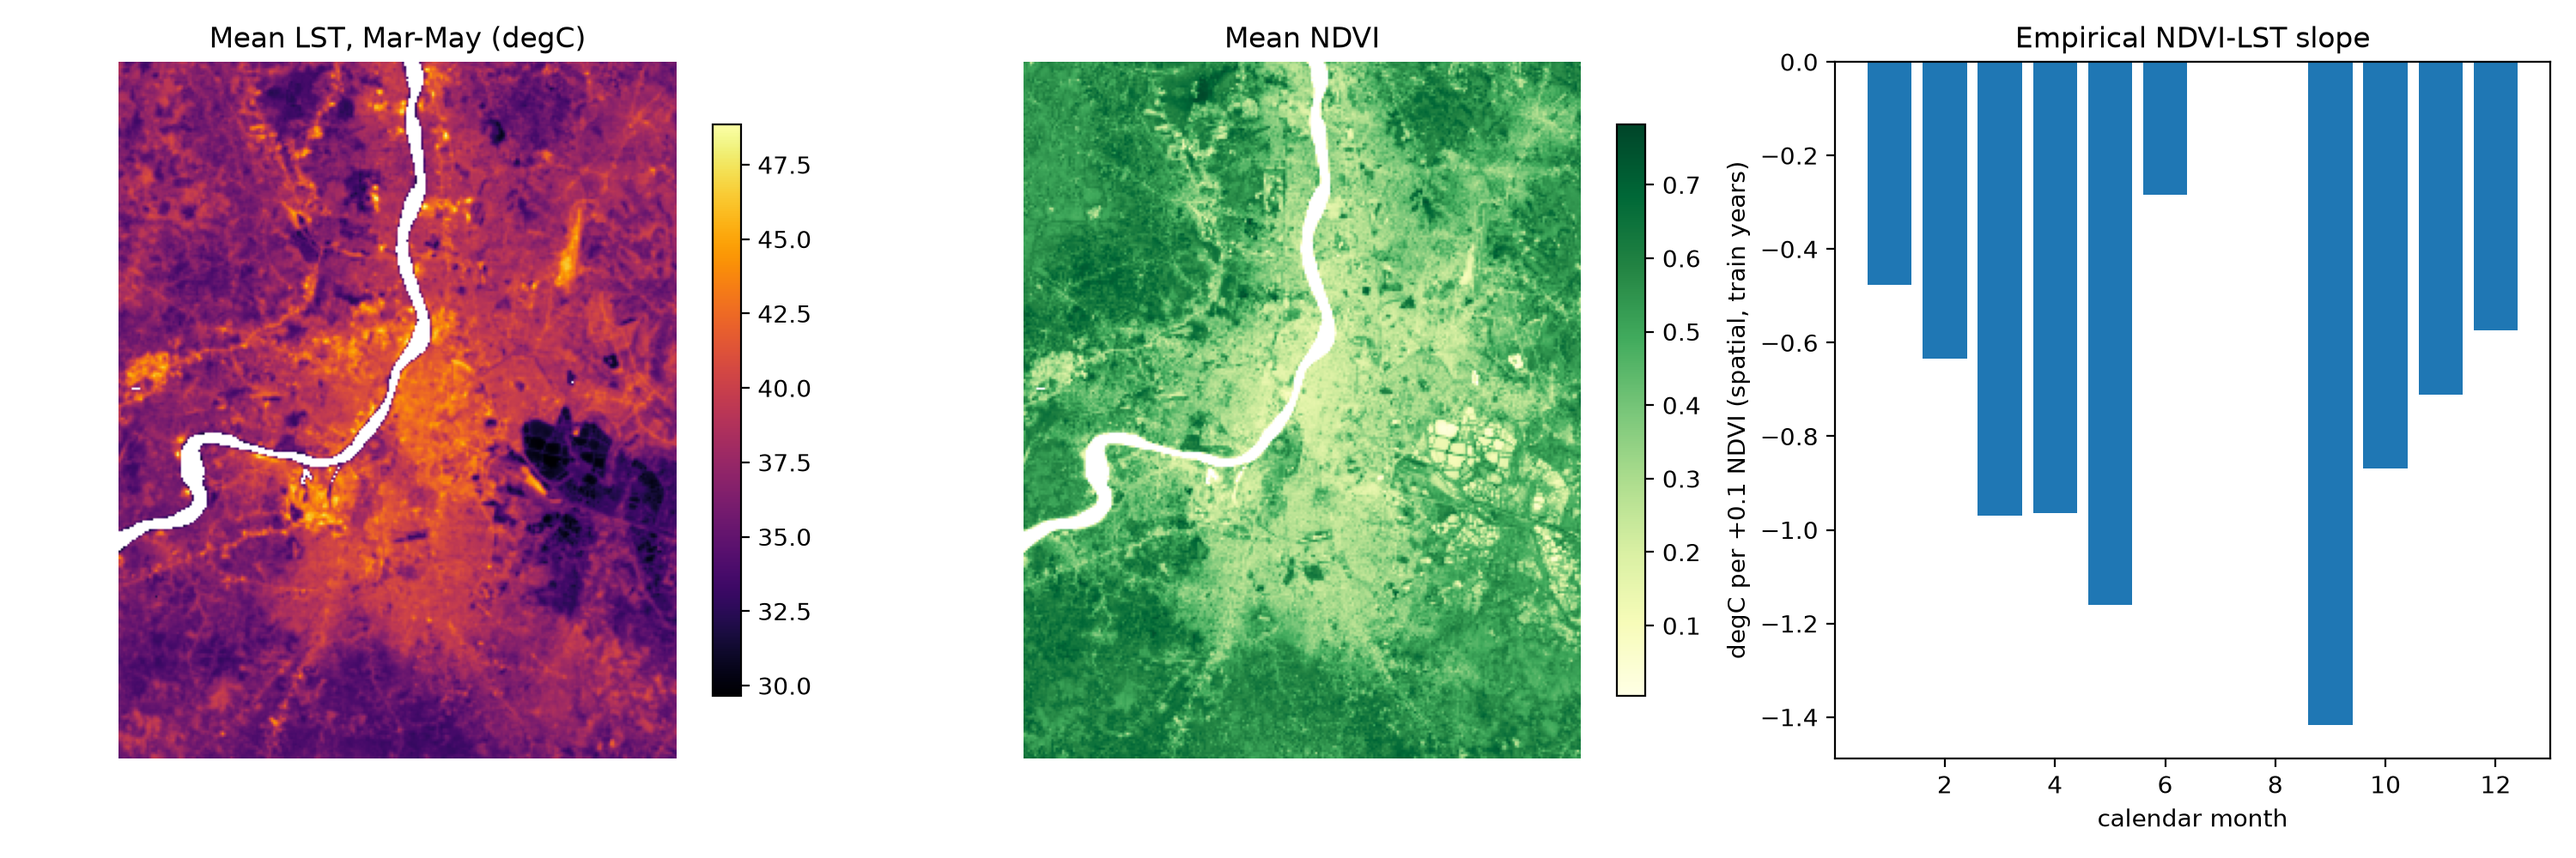
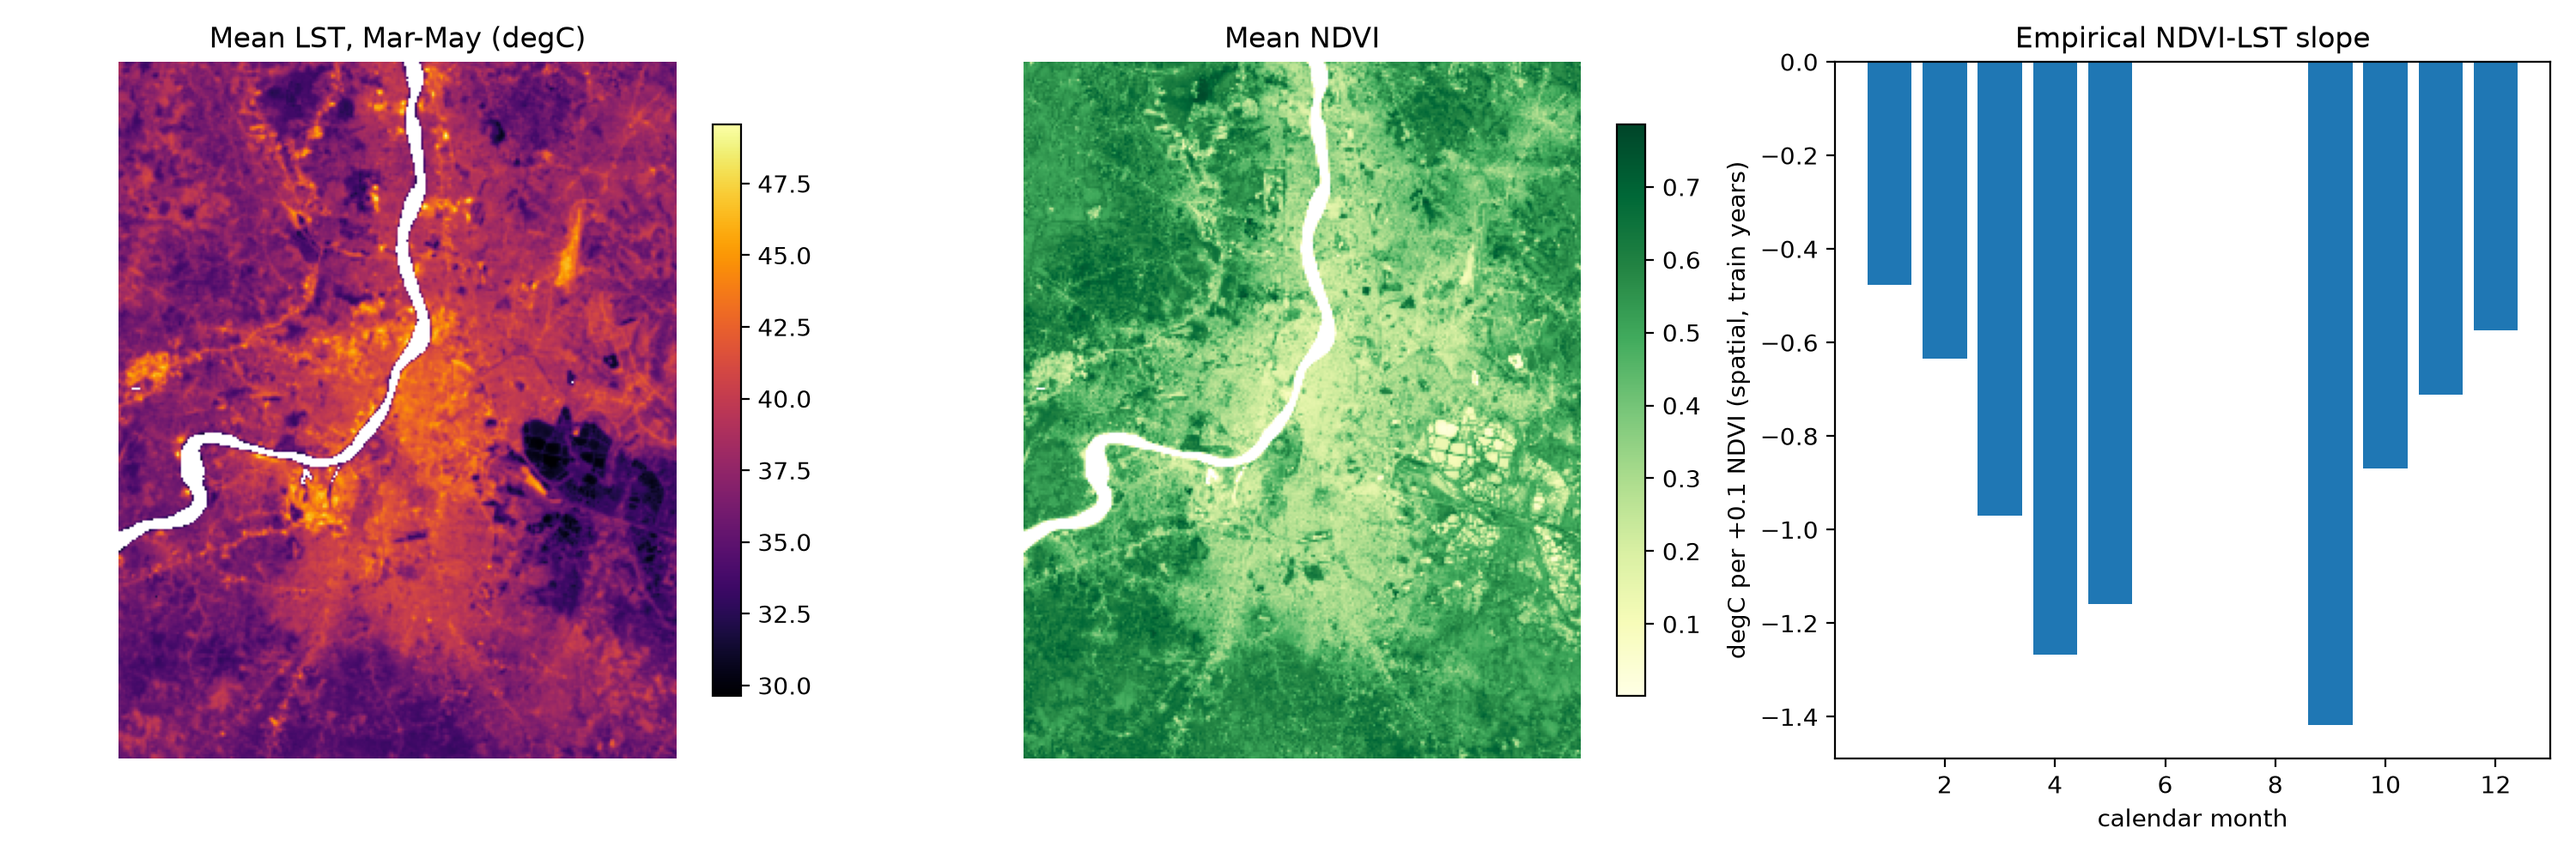
02 and 03 done

diff --git a/03_baselines/baselines.py b/03_baselines/baselines.py
@@ -1,0 +1,136 @@
+"""Stage 3: baselines for LST forecasting at 120 m.
+
+Task: predict LST in target month t from information up to month t-1
+(last valid observation within K=6 months, calendar month of t).
+Models:
+  persistence : last valid LST in the window
+  climatology : per-cell mean of that calendar month, train years
+  linear      : climatology + linear fit on last-valid LST/NDVI anomalies
+  linear_era  : linear + concurrent ERA5 anomalies of month t
+                (REFERENCE ONLY: uses weather not known at forecast time)
+Fit on train years (<=2022), non-held-out cells. Evaluate on 2023 (val) and
+2024-25 (test), for all land cells and for held-out spatial blocks.
+"""
+import warnings
+from pathlib import Path
+
+import matplotlib.pyplot as plt
+import numpy as np
+import pandas as pd
+
+warnings.filterwarnings("ignore", category=RuntimeWarning)
+ROOT = Path(__file__).resolve().parents[1]
+K, TRAIN_END, VAL_YEARS, TEST_YEARS = 6, 2022, [2023], [2024, 2025]
+FIT_FRAC, SEED = 0.2, 42
+MODELS = ["persistence", "climatology", "linear", "linear_era"]
+
+d = np.load(ROOT / "data" / "processed" / "cube.npz")
+lst, ndvi, use, keys, era = d["lst"], d["ndvi"], d["usable"], d["dates"], d["era"]
+land, test_cell = d["land"], d["test_cell"]
+years = np.array([int(k[:4]) for k in keys])
+months = np.array([int(k[5:]) for k in keys])
+T, H, W = lst.shape
+train_t = use & (years <= TRAIN_END)
+rng = np.random.default_rng(SEED)
+
+
+def monthly_clim(x, mask_t):
+    out = np.full((13,) + x.shape[1:], np.nan, np.float32)
+    for m in range(1, 13):
+        idx = np.where(mask_t & (months == m))[0]
+        if len(idx):
+            out[m] = np.nanmean(x[idx], axis=0)
+    return out
+
+
+clim_l, clim_n = monthly_clim(lst, train_t), monthly_clim(ndvi, train_t)
+era_clim = np.stack([era[(years <= TRAIN_END) & (months == m)].mean(0) if m else era[0] * np.nan
+                     for m in range(13)])
+cell_lst, cell_ndvi = np.nanmean(clim_l[1:], 0), np.nanmean(clim_n[1:], 0)
+lst_anom = lst - clim_l[months]
+ndvi_anom = ndvi - clim_n[months]
+era_anom = era - era_clim[months]
+
+
+def last_valid(t):
+    raw, al, an, gap = (np.full((H, W), np.nan, np.float32) for _ in range(4))
+    for lag in range(1, K + 1):
+        if t - lag < 0:
+            break
+        fill = np.isnan(raw) & np.isfinite(lst[t - lag])
+        raw[fill], al[fill] = lst[t - lag][fill], lst_anom[t - lag][fill]
+        an[fill], gap[fill] = ndvi_anom[t - lag][fill], lag
+    return raw, al, an, gap
+
+
+parts, n_elig, n_dropped = [], 0, 0
+for t in range(T):
+    if not use[t] or not np.isfinite(clim_l[months[t]]).any():
+        continue
+    raw, al, an, gap = last_valid(t)
+    base = land & np.isfinite(lst[t]) & np.isfinite(clim_l[months[t]])
+    ok = base & np.isfinite(raw) & np.isfinite(al) & np.isfinite(an)
+    n_elig += base.sum()
+    n_dropped += (base & ~ok).sum()
+    if years[t] <= TRAIN_END:  # subsample training rows, held-out cells excluded
+        ok &= (~test_cell) & (rng.random((H, W)) < FIT_FRAC)
+    n = int(ok.sum())
+    parts.append(pd.DataFrame({
+        "t": t, "year": years[t], "month": months[t], "held_out": test_cell[ok],
+        "y": lst[t][ok], "clim": clim_l[months[t]][ok], "persistence": raw[ok],
+        "al": al[ok], "an": an[ok], "gap": gap[ok],
+        "ndvi_t": ndvi[t][ok], "an_t": ndvi_anom[t][ok],
+        "cell_lst": cell_lst[ok], "cell_ndvi": cell_ndvi[ok],
+        "e0": era_anom[t, 0], "e1": era_anom[t, 1], "e2": era_anom[t, 2]}, index=range(n)))
+df = pd.concat(parts, ignore_index=True)
+df["climatology"] = df.clim
+
+fit = df[df.year <= TRAIN_END]
+def design(x, era_cols=False):
+    cols = [np.ones(len(x)), x.al, x.al * x.gap, x.an]
+    if era_cols:
+        cols += [x.e0, x.e1, x.e2]
+    return np.stack(cols, 1)
+beta = np.linalg.lstsq(design(fit), fit.y - fit.clim, rcond=None)[0]
+beta_e = np.linalg.lstsq(design(fit, True), fit.y - fit.clim, rcond=None)[0]
+df["linear"] = df.clim + design(df) @ beta
+df["linear_era"] = df.clim + design(df, True) @ beta_e
+df.to_pickle(ROOT / "data" / "processed" / "rows.pkl")
+print("linear coefs [1, a_last, a_last*gap, ndvi_a]:", beta.round(3))
+print("linear_era coefs (+ era skinT, t2m, precip anomalies):", beta_e.round(3))
+print(f"Eligible target pixels dropped (no valid obs in last {K} months): "
+      f"{n_dropped / n_elig:.1%}")
+
+
+def table(sub):
+    return {m: dict(rmse=np.sqrt(np.mean((sub[m] - sub.y) ** 2)),
+                    mae=np.mean(np.abs(sub[m] - sub.y)), bias=np.mean(sub[m] - sub.y))
+            for m in MODELS}
+
+
+rows = []
+for name, yrs in [("val", VAL_YEARS), ("test", TEST_YEARS)]:
+    e = df[df.year.isin(yrs)]
+    for scope, sub in [("all_land", e), ("held_out_blocks", e[e.held_out])]:
+        for m, v in table(sub).items():
+            rows.append(dict(split=name, scope=scope, model=m, n=len(sub), **v))
+res = pd.DataFrame(rows).round(3)
+print(res.to_string(index=False))
+res.to_csv(ROOT / "data" / "processed" / "baseline_results.csv", index=False)
+
+te = df[df.year.isin(TEST_YEARS)]
+bym = pd.DataFrame({m: te.groupby("month").apply(lambda g: np.sqrt(np.mean((g[m] - g.y) ** 2)))
+                    for m in MODELS}).round(2)
+print("\nTest RMSE by calendar month:\n", bym.to_string())
+
+fig, ax = plt.subplots(1, 2, figsize=(12, 4.5))
+tt = res[(res.split == "test")].pivot(index="model", columns="scope", values="rmse").loc[MODELS]
+tt.plot.bar(ax=ax[0], rot=20)
+ax[0].set_ylabel("RMSE (degC)")
+ax[0].set_title("Test RMSE (2024-25)")
+bym.plot(ax=ax[1], marker="o")
+ax[1].set_xlabel("calendar month")
+ax[1].set_ylabel("RMSE (degC)")
+ax[1].set_title("Test RMSE by month")
+fig.tight_layout()
+fig.savefig(ROOT / "docs" / "figures" / "baselines.png", dpi=200)

diff --git a/02_preprocessing/build_cube.py b/02_preprocessing/build_cube.py
@@ -20,6 +20,7 @@ import config as C
 FACTOR = 4            # 30 m -> 120 m
 MIN_VALID_BLOCK = 0.5  # min fraction of valid 30 m pixels per 120 m cell
 COLD_OUTLIER = 12.0   # degC below the month's spatial median => masked
+MAX_OUTLIER_FRAC = 0.05  # month dropped if more of its valid pixels are outliers
 TRAIN_END = 2022
 BLOCK = 40            # cells per spatial block side (4.8 km)
 TEST_BLOCK_FRAC = 0.2
@@ -44,6 +45,8 @@ def slope(l, n):
 
 usable = pd.read_csv(C.ROOT / "data" / "interim" / "usable_months.csv")
 T = len(usable)
+use = usable.usable.values.copy()
+dropped = []
 keys = [f"{r.year}-{r.month:02d}" for r in usable.itertuples()]
 
 first = next(C.LANDSAT_DIR.glob("landsat_*.tif"))
@@ -57,7 +60,7 @@ nobs = np.zeros_like(lst)
 masked_cnt = {}
 
 for i, r in enumerate(usable.itertuples()):
-    if not r.usable:
+    if not use[i]:
         continue
     with rasterio.open(C.LANDSAT_DIR / f"landsat_{r.year}_{r.month:02d}.tif") as s:
         a = s.read().astype(np.float32)
@@ -65,6 +68,10 @@ for i, r in enumerate(usable.itertuples()):
     n = np.where(a[1] == C.NODATA, np.nan, a[1] / C.NDVI_FACTOR)
     bad = l < (np.nanmedian(l) - COLD_OUTLIER)
     masked_cnt[keys[i]] = int(bad.sum())
+    if bad.sum() / max(np.isfinite(l).sum(), 1) > MAX_OUTLIER_FRAC:
+        use[i] = False
+        dropped.append(keys[i])
+        continue
     l[bad] = np.nan
     n[np.isnan(l)] = np.nan
     lst[i], ndvi[i], nobs[i] = block_mean(l), block_mean(n), block_mean(a[2])
@@ -82,7 +89,7 @@ era_arr = np.stack([era.skin_temperature - 273.15, era.temperature_2m - 273.15,
 # Per-image spatial NDVI-LST slope on train years.
 rows = []
 for i, r in enumerate(usable.itertuples()):
-    if r.usable and r.year <= TRAIN_END:
+    if use[i] and r.year <= TRAIN_END:
         sl, rr, nn = slope(lst[i], ndvi[i])
         rows.append(dict(year=r.year, month=r.month, slope_per_ndvi=sl, r=rr, n=nn))
 sl_df = pd.DataFrame(rows)
@@ -99,7 +106,7 @@ test_cell = np.isin(block_id, test_ids) & land
 out = C.ROOT / "data" / "processed"
 out.mkdir(parents=True, exist_ok=True)
 np.savez_compressed(out / "cube.npz", lst=lst, ndvi=ndvi, nobs=nobs,
-                    usable=usable.usable.values, dates=np.array(keys), era=era_arr,
+                    usable=use, dates=np.array(keys), era=era_arr,
                     era_names=np.array(["skin_T_C", "t2m_C", "precip_mm"]), land=land,
                     block_id=block_id, test_cell=test_cell,
                     origin_xy=np.array([x0, y0]), res=FACTOR * C.SCALE)
@@ -107,10 +114,10 @@ sl_df.round(4).to_csv(out / "ndvi_lst_slopes_train.csv", index=False)
 
 # Figure: mean Mar-May LST, mean NDVI, mean slope by calendar month.
 mo = usable.month.values
-spring = usable.usable.values & np.isin(mo, [3, 4, 5])
+spring = use & np.isin(mo, [3, 4, 5])
 fig, ax = plt.subplots(1, 3, figsize=(15, 5))
 for a_, d, t, cm in [(ax[0], np.nanmean(lst[spring], 0), "Mean LST, Mar-May (degC)", "inferno"),
-                     (ax[1], np.nanmean(ndvi[usable.usable.values], 0), "Mean NDVI", "YlGn")]:
+                     (ax[1], np.nanmean(ndvi[use], 0), "Mean NDVI", "YlGn")]:
     im = a_.imshow(d, cmap=cm)
     a_.set_title(t)
     a_.axis("off")
@@ -122,8 +129,9 @@ ax[2].set_title("Empirical NDVI-LST slope")
 fig.tight_layout()
 fig.savefig(C.ROOT / "docs" / "figures" / "stage2_overview.png", dpi=200)
 
-print(f"Cube {lst.shape}  usable months {int(usable.usable.sum())}  "
+print(f"Cube {lst.shape}  usable months {int(use.sum())}  "
       f"land cells {int(land.sum())} ({land.mean():.0%})")
+print("Dropped for cloud contamination:", dropped)
 print("Cold-outlier pixels masked (top 8):",
       sorted(masked_cnt.items(), key=lambda kv: -kv[1])[:8])
 print(f"Spatial blocks: {len(ids)} land blocks, {len(test_ids)} held out "

diff --git a/04_models/gbm.py b/04_models/gbm.py
@@ -1,0 +1,48 @@
+"""Stage 4a: gradient-boosted trees on the Stage 3 rows.
+
+gbm_prev : inputs known through month t-1 (true forecasting information)
+gbm_conc : adds concurrent NDVI and ERA5 anomalies of month t
+           (emulator: LST given weather + vegetation state; used for NDVI scenarios)
+Target is the anomaly (y - climatology). Heavy regularisation because the ERA5
+features take only ~60 distinct values in training (one per month).
+"""
+import warnings
+from pathlib import Path
+
+import numpy as np
+import pandas as pd
+from sklearn.ensemble import HistGradientBoostingRegressor
+
+warnings.filterwarnings("ignore")
+ROOT = Path(__file__).resolve().parents[1]
+TRAIN_END, VAL_YEARS, TEST_YEARS = 2022, [2023], [2024, 2025]
+
+df = pd.read_pickle(ROOT / "data" / "processed" / "rows.pkl")
+df["msin"], df["mcos"] = np.sin(2 * np.pi * df.month / 12), np.cos(2 * np.pi * df.month / 12)
+prev = ["clim", "cell_lst", "cell_ndvi", "msin", "mcos", "al", "an", "gap"]
+conc = prev + ["ndvi_t", "an_t", "e0", "e1", "e2"]
+fit = df[df.year <= TRAIN_END]
+
+for name, feats in [("gbm_prev", prev), ("gbm_conc", conc)]:
+    m = HistGradientBoostingRegressor(max_iter=200, learning_rate=0.05, max_leaf_nodes=15,
+                                      min_samples_leaf=5000, l2_regularization=10.0,
+                                      early_stopping=False, random_state=42)
+    m.fit(fit[feats], fit.y - fit.clim)
+    df[name] = df.clim + m.predict(df[feats])
+
+MODELS = ["climatology", "linear", "linear_era", "gbm_prev", "gbm_conc"]
+rows = []
+for split, yrs in [("val", VAL_YEARS), ("test", TEST_YEARS)]:
+    e = df[df.year.isin(yrs)]
+    for scope, sub in [("all_land", e), ("held_out_blocks", e[e.held_out])]:
+        for mm in MODELS:
+            err = sub[mm] - sub.y
+            rows.append(dict(split=split, scope=scope, model=mm, n=len(sub),
+                             rmse=np.sqrt((err ** 2).mean()), mae=err.abs().mean(), bias=err.mean()))
+res = pd.DataFrame(rows).round(3)
+print(res.to_string(index=False))
+res.to_csv(ROOT / "data" / "processed" / "gbm_results.csv", index=False)
+te = df[df.year.isin(TEST_YEARS)]
+print("\nTest RMSE by calendar month:\n", pd.DataFrame(
+    {mm: te.groupby("month").apply(lambda g: np.sqrt(((g[mm] - g.y) ** 2).mean()))
+     for mm in MODELS}).round(2).to_string())
